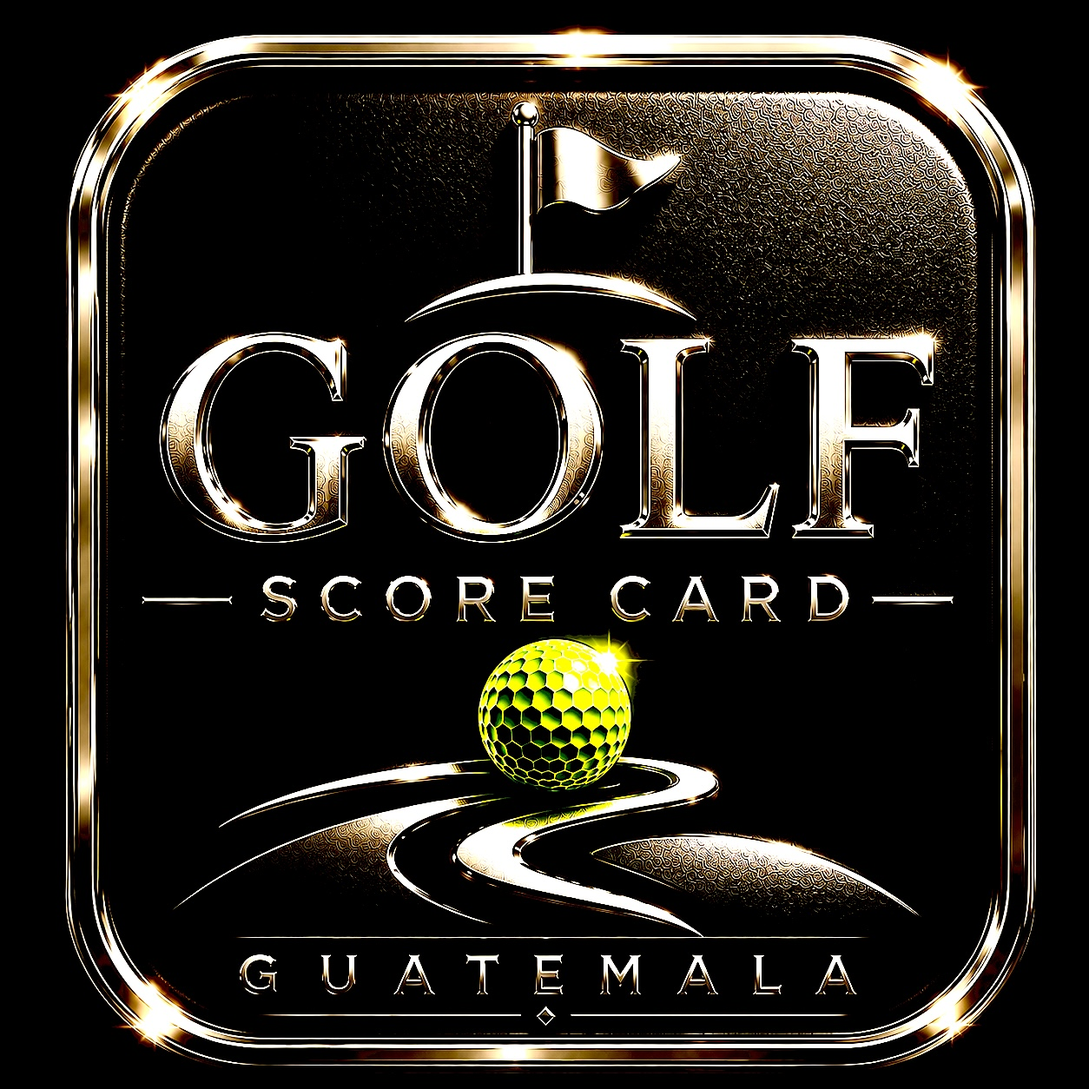
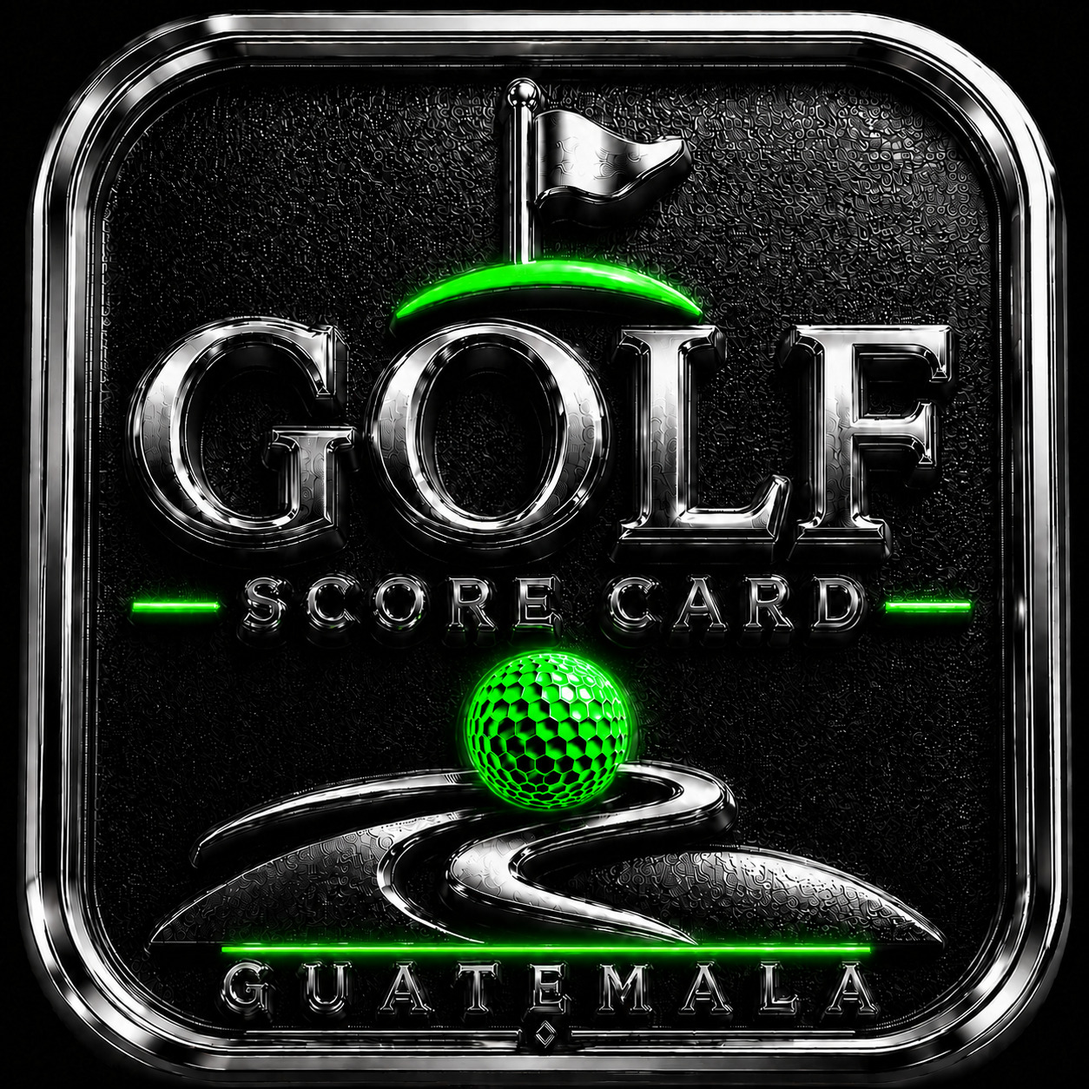
V297 · icono neón y micrófono compacto

diff --git a/index-grupal.html b/index-grupal.html
@@ -496,7 +496,10 @@ input,textarea,select{-webkit-user-select:text!important;user-select:text!import
 .registration-method-title{color:var(--lime);font:900 16px Arial,sans-serif;letter-spacing:.4px}
 .registration-method-action{margin-top:5px;color:#fff;font:900 13px Arial,sans-serif}
 .registration-method-fields{margin-top:3px;color:#cfd2d4;font:800 12px Arial,sans-serif;letter-spacing:.2px}
-.registration-method .nr-mic{margin:14px auto 4px}
+.registration-method .nr-mic{width:120px;height:120px;margin:14px auto 4px}
+.registration-method .nr-mic .mic-hit{inset:-26px}
+.registration-method .nr-mic .mic-visual{border-width:3px}
+.registration-method .nr-mic .setup-mic-icon{display:block;width:58%;height:58%;fill:currentColor;filter:drop-shadow(0 1px 0 rgba(255,255,255,.18))}
 .new-round-card .detected-row.head{grid-template-columns:minmax(145px,1.35fr) 62px 110px!important;column-gap:6px!important;margin-left:34px!important;width:calc(100% - 34px)!important}
 .new-round-card .draft-edit-row{grid-template-columns:28px minmax(145px,1.35fr) 62px 110px!important;gap:6px!important;opacity:1!important;padding:7px 3px!important}
 .new-round-card .confirm-row,.new-round-card .confirm-row.head{grid-template-columns:minmax(145px,1.35fr) 62px 110px!important;column-gap:6px!important}
@@ -504,7 +507,7 @@ input,textarea,select{-webkit-user-select:text!important;user-select:text!import
 #cardLibraryOverlay{z-index:140}.card-library-panel{width:min(920px,100%);margin:18px auto;border:1px solid #555;background:#000;padding:18px}.card-library-head{display:flex;align-items:center;justify-content:space-between;gap:12px}.card-library-head h1{margin:0;color:var(--lime);font-size:24px}.card-library-head button,.card-library-actions button{min-height:42px;border:1px solid var(--lime);border-radius:5px;background:#050505;color:#fff;font:900 12px Arial,sans-serif;padding:0 14px}.card-library-filters{display:grid;grid-template-columns:1fr 1fr 1.5fr;gap:8px;margin:15px 0}.card-library-filters select,.card-library-filters input,.card-library-actions select{width:100%;height:44px;border:1px solid #555;border-radius:5px;background:#050505;color:#fff;padding:0 10px;font:800 12px Arial,sans-serif;text-transform:uppercase}.card-library-list{display:grid;gap:8px;max-height:42vh;overflow:auto}.card-library-round{width:100%;display:grid;grid-template-columns:130px 1fr auto;gap:12px;align-items:center;min-height:68px;border:1px solid #4b4f50;border-radius:6px;background:#030303;color:#fff;padding:10px 12px;text-align:left}.card-library-round.active{border-color:var(--lime);box-shadow:0 0 10px rgba(49,255,0,.22)}.card-library-round-date{color:var(--lime);font-weight:900}.card-library-round-main{font-weight:900}.card-library-round-main small{display:block;margin-top:5px;color:#aaa}.card-library-round-mode{font-weight:900}.card-library-status{min-height:24px;padding:8px 0;color:var(--lime);font-weight:900;text-align:center}.card-library-actions{display:grid;grid-template-columns:repeat(3,1fr);gap:8px;margin-top:10px;padding-top:12px;border-top:1px solid #444}.card-library-selected{grid-column:1/4;color:#fff;font-weight:900;text-align:center}.card-library-actions select{grid-column:1/4}.card-library-empty{padding:26px;border:1px solid #333;color:#999;text-align:center;font-weight:900}
 #historyInsightsOverlay{z-index:150}.history-insights-panel{width:min(760px,100%);margin:18px auto;border:1px solid #555;background:#000;padding:18px}.history-insights-panel h1{margin:0;color:var(--lime);font-size:23px}.history-insights-query{display:grid;grid-template-columns:1fr auto;gap:8px;margin-top:16px}.history-insights-query input{height:48px;border:1px solid #555;border-radius:5px;background:#050505;color:#fff;padding:0 12px;font:800 13px Arial,sans-serif;text-transform:uppercase}.history-insights-query button,.history-insights-quick button,.history-insights-close{min-height:44px;border:1px solid var(--lime);border-radius:5px;background:#050505;color:#fff;font:900 11px Arial,sans-serif;padding:0 13px}.history-insights-quick{display:grid;grid-template-columns:repeat(3,1fr);gap:7px;margin:12px 0}.history-insights-result{min-height:110px;border:1px solid #444;border-radius:6px;padding:16px;color:#fff;font:900 16px/1.5 Arial,sans-serif}.history-insights-note{margin:10px 0;color:#999;font-size:10px;text-align:center}.history-insights-close{width:100%}
 @media(max-width:800px){
- .registration-method{margin-top:8px;padding:8px}.registration-method-title{font-size:12px}.registration-method-action{font-size:10px}.registration-method-fields{font-size:9px}.registration-method .nr-mic{margin:10px auto 3px}
+ .registration-method{margin-top:8px;padding:8px}.registration-method-title{font-size:12px}.registration-method-action{font-size:10px}.registration-method-fields{font-size:9px}.registration-method .nr-mic{width:112px;height:112px;margin:10px auto 3px}.registration-method .nr-mic .mic-hit{inset:-26px}
  .new-round-card .detected-row.head{grid-template-columns:minmax(0,1.35fr) 42px minmax(0,.8fr)!important;column-gap:3px!important;margin-left:23px!important;width:calc(100% - 23px)!important}
  .new-round-card .draft-edit-row{grid-template-columns:20px minmax(0,1.35fr) 42px minmax(0,.8fr)!important;gap:3px!important;padding:6px 2px!important}
  .new-round-card .confirm-row,.new-round-card .confirm-row.head{grid-template-columns:minmax(0,1.35fr) 42px minmax(0,.8fr)!important;column-gap:3px!important}
@@ -538,7 +541,7 @@ body.stableford-mode .account-backup-button{position:static;display:block;width:
   <section class="summary"><div class="summary-title" id="summaryTitle">INFORMACIÓN DE RONDA</div><table><thead><tr id="summaryHeadRow"><th class="summary-player">JUGADOR</th><th>GROSS OUT</th><th>GROSS IN</th><th>GROSS TOTAL</th><th>HCP</th><th>NETO TOTAL</th><th>+/- NETO</th></tr></thead><tbody id="summaryBody"></tbody></table></section>
   <section class="stableford-series hidden" id="stablefordSeriesSection"><div class="summary-title">CLASIFICACIÓN ACUMULADA · MEJORES 3 DE 4</div><div class="stableford-series-tabs"><button type="button" id="stablefordSeniorTab">SENIOR</button><button type="button" id="stablefordSuperSeniorTab">S. SENIOR</button></div><table><thead><tr><th>POS.</th><th>JUGADOR</th><th>F1</th><th>F2</th><th>F3</th><th>F4</th><th>MEJORES 3</th></tr></thead><tbody id="stablefordStandingsBody"></tbody></table><div class="stableford-series-actions"><button type="button" id="openStablefordResult">AGREGAR RESULTADO OFICIAL</button></div></section>
   <div class="round-actions"><button id="finalCardButton">TARJETA DIGITAL</button><button id="openCardLibraryButton">BIBLIOTECA</button><button class="hidden" id="previousRoundButton">RONDA PREVIA</button><button id="newRoundButton">NUEVA RONDA</button></div>
-  <div class="back-registration-control"><button class="back-registration-button" id="backToRegistrationButton" aria-label="Atrás: volver a la pantalla principal" title="Volver a la pantalla principal">ATRÁS</button><button class="back-registration-button add-player-button hidden" id="addPlayerButton" aria-label="Agregar jugador a la ronda" title="Agregar jugador">+ JUGADOR</button></div>
+  <div class="back-registration-control"><button class="back-registration-button" id="backToRegistrationButton" aria-label="Atrás: editar datos de la ronda" title="Editar datos de la ronda">ATRÁS</button><button class="back-registration-button add-player-button hidden" id="addPlayerButton" aria-label="Agregar jugador a la ronda" title="Agregar jugador">+ JUGADOR</button></div>
 </main>
 
 <div class="overlay" id="finalCardOverlay" aria-hidden="true">
@@ -572,7 +575,7 @@ body.stableford-mode .account-backup-button{position:static;display:block;width:
       <div class="registration-method-title">1 · DICTADO</div>
       <div class="registration-method-action">CLICK MICRÓFONO</div>
       <div class="registration-method-fields">NOMBRE + HDCP + MARCAS</div>
-      <div class="nr-mic" id="setupMicWrap"><button class="mic-hit" id="setupMic" aria-label="Dictar nombre, HDCP y marcas"></button><div class="mic-visual">🎙</div></div>
+      <div class="nr-mic" id="setupMicWrap"><button class="mic-hit" id="setupMic" aria-label="Dictar nombre, HDCP y marcas"></button><div class="mic-visual" aria-hidden="true"><svg class="setup-mic-icon" viewBox="0 0 24 24" focusable="false" aria-hidden="true"><path d="M12 14a3 3 0 0 0 3-3V5a3 3 0 0 0-6 0v6a3 3 0 0 0 3 3Zm5-3a5 5 0 0 1-10 0H5a7 7 0 0 0 6 6.92V21H8v2h8v-2h-3v-3.08A7 7 0 0 0 19 11h-2Z"/></svg></div></div>
     </section>
     </div>
     <section class="registration-method" aria-label="Método 2 Manual">
@@ -768,7 +771,7 @@ const CONTROL_MANUAL_DEMO_PLAYERS=[
   {name:"CARLOS",handicap:5,scores:[4,3,4,3,2]}
 ];
 const STABLEFORD_ACTIVE_KEY="golf-score-card-guatemala-stableford-active-v1";
-const STABLEFORD_OFFICIAL_HOSTING_URL="/index-grupal.html?stableford_emergency=countryclub&emergency_clean=1&v=288";
+const STABLEFORD_OFFICIAL_HOSTING_URL="/index-grupal.html?stableford_emergency=countryclub&emergency_clean=1&v=282";
 let round=sfEmergency?(latestStoredRound("stableford")||blankRound()):demoControlManual?(readStoredRound(DEMO_CONTROL_MANUAL_KEY)||blankRound()):loadRound();
 let sfRestoredActive=!!(sfEmergency&&round.configured&&round.mode==="stableford");
 let draftPlayers=[],manualDraftRows=Array.from({length:6},()=>({name:"",handicap:"",tee:""})),draftTournament=null,draftCourse="pulte",rosterEditMode=false,rosterEditJoinHole=1,handicapRectificationMode=false,nameCorrectionMode=false,profileCorrectionMode=false,rosterAddMode=false;
@@ -2303,7 +2306,7 @@ function renderFinalDigitalCard(){
   const actions=$("artifactActions");actions.hidden=!round.officiallyClosedAt;$("artifactShareStatus").textContent="";$("openOriginalGlobal").classList.toggle("hidden",!corrected);if(round.officiallyClosedAt)$("personalCardPlayer").innerHTML=round.officialSnapshot.players.map(p=>`<option value="${yds10NameSafe(p.id)}">${yds10NameSafe(p.name)}</option>`).join("");
   return true;
 }
-async function officiallyCloseRound(){if(round.provisional||!isRoundComplete()||round.officiallyClosedAt)return false;if(!round.endedAt)stopRoundClock();const result=await window.GSCRoundClosure.close(round,{deriveScore:derivedScoreForHole,appVersion:"V288"});if(!result.ok){$("status").textContent="RONDA INCOMPLETA";return false}round=result.round;persist();render();renderFinalDigitalCard();$("status").textContent="RONDA FINALIZADA. LAS TARJETAS ESTÁN LISTAS.";return true}
+async function officiallyCloseRound(){if(round.provisional||!isRoundComplete()||round.officiallyClosedAt)return false;if(!round.endedAt)stopRoundClock();const result=await window.GSCRoundClosure.close(round,{deriveScore:derivedScoreForHole,appVersion:"V287"});if(!result.ok){$("status").textContent="RONDA INCOMPLETA";return false}round=result.round;persist();render();renderFinalDigitalCard();$("status").textContent="RONDA FINALIZADA. LAS TARJETAS ESTÁN LISTAS.";return true}
 function officialArtifacts(){if(round.provisional||!round.officialSnapshot)throw new Error("Ronda no cerrada");return window.GSCCardArtifacts.build(round.officialSnapshot)}
 function artifactBlobUrl(html){return URL.createObjectURL(new Blob([html],{type:"text/html;charset=utf-8"}))}
 function openArtifact(item){const url=artifactBlobUrl(item.html),win=open(url,"_blank");setTimeout(()=>URL.revokeObjectURL(url),60000);return!!win}
@@ -2316,7 +2319,7 @@ function correctionSelectedPlayer(){return round.players.find(player=>player.id=
 function renderOfficialCorrectionCurrent(){const player=correctionSelectedPlayer(),hole=Number($("officialCorrectionHole").value),score=player?.holes?.[hole];$("officialCorrectionCurrent").value=score?(score.status==="x"?"X":String(score.gross??"")):"";return score||null}
 function openOfficialCorrection(){if(!round.officialSnapshot||!round.officiallyClosedAt)return false;$("officialCorrectionPlayer").innerHTML=round.players.map(player=>`<option value="${yds10NameSafe(player.id)}">${yds10NameSafe(player.name)}</option>`).join("");$("officialCorrectionHole").value="1";$("officialCorrectionGross").value="";$("officialCorrectionReason").value="";$("officialCorrectionStatus").textContent="";renderOfficialCorrectionCurrent();$("officialCorrectionOverlay").classList.add("visible");$("officialCorrectionOverlay").setAttribute("aria-hidden","false");return true}
 function closeOfficialCorrection(){$("officialCorrectionOverlay").classList.remove("visible");$("officialCorrectionOverlay").setAttribute("aria-hidden","true")}
-async function saveOfficialCorrection(){const player=correctionSelectedPlayer(),hole=Number($("officialCorrectionHole").value),gross=Number($("officialCorrectionGross").value),reason=$("officialCorrectionReason").value.trim(),authorizedBy=$("officialCorrectionAuthorizedBy").value.trim(),status=$("officialCorrectionStatus");if(!player||!Number.isInteger(hole)||hole<1||hole>18||!Number.isInteger(gross)||gross<1||gross>30){status.textContent="JUGADOR, HOYO O GROSS INVÁLIDO";return false}if(!reason){status.textContent="MOTIVO OBLIGATORIO";return false}if(!authorizedBy){status.textContent="RESPONSABLE OBLIGATORIO";return false}const changes=[{playerId:player.id,hole,gross}],result=await window.GSCRoundClosure.correct(round,{changes,reason,authorizedBy,appVersion:"V288"});if(!result.ok){status.textContent="NO SE PUDO GUARDAR LA CORRECCIÓN";return false}const current=player.holes?.[hole]||{},correctedScore=scoreObject(player,hole,gross,current);player.holes[hole]=isStablefordRound()?{...correctedScore,points:GSCStableford.pointsFor(gross,PAR[hole-1])}:correctedScore;round={...result.round,players:round.players,officialSnapshot:result.snapshot};if(isStablefordRound())storeStablefordRoundResults();persist();archiveRoundSnapshot(round);render();renderFinalDigitalCard();closeOfficialCorrection();$("artifactShareStatus").textContent=`CORRECCIÓN V${round.officialVersion} GUARDADA · ORIGINAL PRESERVADO`;return true}
+async function saveOfficialCorrection(){const player=correctionSelectedPlayer(),hole=Number($("officialCorrectionHole").value),gross=Number($("officialCorrectionGross").value),reason=$("officialCorrectionReason").value.trim(),authorizedBy=$("officialCorrectionAuthorizedBy").value.trim(),status=$("officialCorrectionStatus");if(!player||!Number.isInteger(hole)||hole<1||hole>18||!Number.isInteger(gross)||gross<1||gross>30){status.textContent="JUGADOR, HOYO O GROSS INVÁLIDO";return false}if(!reason){status.textContent="MOTIVO OBLIGATORIO";return false}if(!authorizedBy){status.textContent="RESPONSABLE OBLIGATORIO";return false}const changes=[{playerId:player.id,hole,gross}],result=await window.GSCRoundClosure.correct(round,{changes,reason,authorizedBy,appVersion:"V287"});if(!result.ok){status.textContent="NO SE PUDO GUARDAR LA CORRECCIÓN";return false}const current=player.holes?.[hole]||{},correctedScore=scoreObject(player,hole,gross,current);player.holes[hole]=isStablefordRound()?{...correctedScore,points:GSCStableford.pointsFor(gross,PAR[hole-1])}:correctedScore;round={...result.round,players:round.players,officialSnapshot:result.snapshot};if(isStablefordRound())storeStablefordRoundResults();persist();archiveRoundSnapshot(round);render();renderFinalDigitalCard();closeOfficialCorrection();$("artifactShareStatus").textContent=`CORRECCIÓN V${round.officialVersion} GUARDADA · ORIGINAL PRESERVADO`;return true}
 async function artifactFileAction(working,success,operation){const status=$("artifactShareStatus");status.textContent=working;try{const result=await operation();status.textContent=success;return result}catch(error){console.error("Archivo oficial:",error);status.textContent="NO SE PUDO GENERAR EL ARCHIVO";return null}}
 function imageOfficialCard(item){return artifactFileAction("GENERANDO IMAGEN…","IMAGEN LISTA · EN IPHONE ELIGE GUARDAR IMAGEN",()=>window.GSCCardFileExport.shareImage(item,"Tarjeta oficial Golf Score Card GT"))}
 function pdfOfficialCard(item){return artifactFileAction("GENERANDO PDF…","PDF OFICIAL DESCARGADO",()=>window.GSCCardFileExport.downloadPdf(item))}
@@ -2450,7 +2453,6 @@ function openNewRoundDraft(){
   // Regla mandatoria: abrir el registro de NUEVA RONDA nunca borra ni reemplaza
   // la última ronda persistida. El reemplazo ocurre exclusivamente en startConfirmedRound().
   persist();
-  if(sfEmergency)window.history.replaceState(null,"",window.location.pathname);
   dateSetup();
   openSetup("new");
   return true;
@@ -2707,7 +2709,7 @@ render=function(){if(isStablefordRound())return renderStableford();document.body
 const baseRenderPreviousRound=render;render=function(){const output=baseRenderPreviousRound();renderPreviousRoundControls();renderPlayerEditControls();return output};
 renderFinalDigitalCard=function(){const ok=baseRenderFinalDigitalCard();if(!ok)return false;$("finalSummaryHeadRow").innerHTML=$("summaryHeadRow").innerHTML;$("finalSummaryTitle").textContent=isStablefordRound()?"PUNTOS":"INFORMACIÓN DE RONDA";if(isStablefordRound()){const cfg=stablefordConfig(),corrected=Number(round.officialVersion||1)>1;document.querySelector(".final-card-head h1").textContent=corrected?`TARJETA STABLEFORD CORREGIDA · ${cfg.label} · V${round.officialVersion}`:`TARJETA STABLEFORD · ${cfg.label}`;document.querySelector(".final-card-readonly").textContent=corrected?"STABLEFORD SCRATCH · CORRECCIÓN OFICIAL · ORIGINAL PRESERVADO · SOLO CONSULTA":"STABLEFORD SCRATCH · TARJETA OFICIAL · SOLO CONSULTA"}return true};
 function storeStablefordRoundResults(){let series=readStablefordSeries();for(const p of round.players){const t=stablefordTotals(p,ALL);series=GSCStableford.upsertResult(series,{playerName:p.name,category:round.stablefordCategory,roundNumber:round.stablefordRoundNumber,courseKey:round.courseKey,points:t.points,gross:t.grossCount?t.gross:null,source:"scorecard",roundId:round.id})}writeStablefordSeries(series)}
-async function stablefordOfficialSnapshot(closedAt){const snapshot={roundId:round.id,version:Number(round.officialVersion)||1,status:"officially_closed",mode:"stableford",stablefordCategory:round.stablefordCategory,stablefordRoundNumber:round.stablefordRoundNumber,courseKey:round.courseKey,course:round.course,tournament:round.tournament||{name:STABLEFORD_DEFAULT_TOURNAMENT},playedAt:round.createdAt,officiallyClosedAt:closedAt,appVersion:"V288",players:JSON.parse(JSON.stringify(round.players))};snapshot.sha256=await window.GSCRoundClosure.sha256(snapshot);return snapshot}
+async function stablefordOfficialSnapshot(closedAt){const snapshot={roundId:round.id,version:Number(round.officialVersion)||1,status:"officially_closed",mode:"stableford",stablefordCategory:round.stablefordCategory,stablefordRoundNumber:round.stablefordRoundNumber,courseKey:round.courseKey,course:round.course,tournament:round.tournament||{name:STABLEFORD_DEFAULT_TOURNAMENT},playedAt:round.createdAt,officiallyClosedAt:closedAt,appVersion:"V287",players:JSON.parse(JSON.stringify(round.players))};snapshot.sha256=await window.GSCRoundClosure.sha256(snapshot);return snapshot}
 officiallyCloseRound=async function(){if(!isStablefordRound())return baseOfficiallyCloseRound();if(!isRoundComplete()||round.officiallyClosedAt){$("status").textContent="RONDA STABLEFORD INCOMPLETA";return false}if(!round.endedAt)stopRoundClock();const closedAt=new Date().toISOString(),snapshot=await stablefordOfficialSnapshot(closedAt);round={...round,status:"officially_closed",officiallyClosedAt:closedAt,officialVersion:snapshot.version,snapshotHash:snapshot.sha256,officialSnapshot:snapshot};storeStablefordRoundResults();persist();archiveRoundSnapshot(round);render();renderFinalDigitalCard();$("status").textContent="RONDA FINALIZADA · CAMPO, FECHA, TORNEO Y TARJETA GUARDADOS EN HISTORIAL";return true};
 roundSessionConfig=function(){const cfg=baseRoundSessionConfig();if(!isStablefordRound())return cfg;cfg.audio.input.transcription.prompt=`Golf Guatemala. Modalidad Stableford Scratch ${stablefordConfig().label}. Jugadores: ${round.players.map(p=>p.name).join(", ")}. El cursor ya indica el hoyo activo: transcribe literalmente nombre y Gross; el hoyo es opcional y solo reposiciona el cursor cuando se pronuncia. Después de Falta NOMBRE, una respuesta con solo score o solo omisión pertenece a ese jugador. Acepta números, par, bogey, doble bogey, birdie, eagle, albatros, X, equis, cero, sin score, sin dato, no informó, no dijo, no cantó, ponle cero, no le anotes o levanta. No inventes handicap ni Neto.`;return cfg};
 function openStablefordResultEditor(){const cfg=stablefordConfig();$("stablefordResultCategory").value=stablefordRankingCategory;$("stablefordResultRound").value=String(round.stablefordRoundNumber||1);$("stablefordResultCourse").value=round.courseKey||"country_club";$("stablefordResultName").value="";$("stablefordResultPoints").value="";$("stablefordResultGross").value="";$("stablefordResultStatus").textContent="";$("stablefordResultOverlay").classList.add("visible");$("stablefordResultOverlay").setAttribute("aria-hidden","false");$("stablefordResultName").focus();return cfg}
@@ -3162,7 +3164,7 @@ const lockScorecardSelection=e=>{if(e.target?.closest?.(".provisional-player-con
 document.addEventListener("selectionstart",lockScorecardSelection,{capture:true});
 document.addEventListener("contextmenu",lockScorecardSelection,{capture:true});
 document.addEventListener("dragstart",lockScorecardSelection,{capture:true});
-$("backToRegistrationButton").addEventListener("click",()=>isStablefordRound()?openNewRoundDraft():openCurrentRoundDataEditor());
+$("backToRegistrationButton").addEventListener("click",()=>isStablefordRound()?openStablefordDataEditor():openCurrentRoundDataEditor());
 $("addPlayerButton").addEventListener("click",()=>isStablefordRound()?openStablefordDataEditor():openRosterEditor());
 $("scorecard").addEventListener("input",e=>{const input=e.target.closest?.("[data-provisional-player]");if(!input||!round.provisional)return;const p=round.players.find(x=>x.id===input.dataset.provisionalPlayer);if(p)p.name=String(input.value||"").toUpperCase().trimStart()||`JUGADOR ${p.slot}`});
 $("scorecard").addEventListener("change",e=>{if(!round.provisional)return;const name=e.target.closest?.("[data-provisional-player]"),hcp=e.target.closest?.("[data-provisional-hcp]"),tee=e.target.closest?.("[data-provisional-tee]"),control=name||hcp||tee;if(!control)return;const id=name?.dataset.provisionalPlayer||hcp?.dataset.provisionalHcp||tee?.dataset.provisionalTee,p=round.players.find(x=>x.id===id);if(!p)return;if(name){const value=String(name.value||"").trim().toUpperCase();p.name=value||`JUGADOR ${p.slot}`;name.value=value}if(hcp){const value=String(hcp.value||"").trim(),number=Number(value),valid=value!==""&&Number.isInteger(number)&&number>=0&&number<=54;p.provisionalHandicapProvided=valid;p.handicap=valid?number:0}if(tee){const value=normalizeTee(tee.value);p.provisionalTeeProvided=!!value;p.tee=value||"Blanco"}recomputePlayerScores(p);persist();render()});

diff --git a/service-worker.js b/service-worker.js
@@ -1,6 +1,6 @@
 "use strict";
 
-const CACHE_NAME="gscg-mobile-v290";
+const CACHE_NAME="gscg-mobile-v297";
 const OFFLINE_ENTRY="/index-grupal.html";
 const SHELL=[
   OFFLINE_ENTRY,

diff --git a/CONTROL_PROYECTO_SCIRE/MAPA_MAESTRO_DE_ARCHIVOS.md b/CONTROL_PROYECTO_SCIRE/MAPA_MAESTRO_DE_ARCHIVOS.md
@@ -16,7 +16,7 @@ Archivos antiguos retirados del uso diario: **89**. Siguen recuperables en el hi
 | `.github/workflows/roadmap-gate.yml` | `2b0e0640e36c07e343f06414a9d2d703727237bb` | 712 bytes | Ejecuta automáticamente el candado ROADMAP en GitHub. |
 | `.github/workflows/stableford-tournament-pass.yml` | `df70cf36092ddd72b59271bf241b1ac58fb21027` | 1075 bytes | Comprueba Stableford y exige primero ambos ROADMAPS. |
 | `.gitignore` | `0994446eb785e2166ce79941bec8bba6c245c567` | 75 bytes | Indica qué archivos temporales no deben subirse a GitHub. |
-| `7B1C43A7-EB8A-43CB-B03E-0CAE9273F2A2.jpeg` | `a75309584c45d651daa6ef2db27db7722a2159d1` | 528361 bytes | Logo oficial original; su nombre raro se conserva porque ya estaba enlazado. |
+| `7B1C43A7-EB8A-43CB-B03E-0CAE9273F2A2.jpeg` | `1c3cdacf565de7b2ce42d57bb416a23c50af1b8e` | 599880 bytes | Fuente histórica del logo cromado 3D con verde neón muy saturado; conserva su nombre para no romper enlaces. |
 | `APP_ARCHITECTURE.md` | `7119e67641ce309201fa32922195ebceb3006fb4` | 3405 bytes | Explica cómo se divide la aplicación y cómo trabajan juntas sus partes. |
 | `AUDITORIA_MAESTRA_V170.md` | `8dd135a84521f64c39928fadb35de0518447fe40` | 4462 bytes | Resumen de una revisión histórica del producto. |
 | `CONTROL_PROYECTO_SCIRE/01_DIRECTRICES_PEDIDOS_Y_ORDENES_PENDIENTES/DIRECTRICES_MANDATORIAS.md` | `be454f43b458670199a7be029abf716dc49108d7` | 4018 bytes | Reglas permanentes, punto de corte y candado técnico de ambos ROADMAPS, incluido Vercel. |
@@ -41,8 +41,8 @@ Archivos antiguos retirados del uso diario: **89**. Siguen recuperables en el hi
 | `MAPA_MATRIZ_RONDA_PREVIA_V253.md` | `8194444ab5a8de1d77abaa7d39d0cb6e7a149548` | 2858 bytes | Explica Ronda previa desde V253. |
 | `MAPA_MATRIZ_STABLEFORD_V252.md` | `8911a7ef86398e0c3f18e647433387a02645082c` | 3828 bytes | Explica las piezas de Stableford incorporadas en V252. |
 | `README.md` | `e93c3adc84c81fdda07303f5d0f75fbb35140ea2` | 2170 bytes | Portada de GitHub que presenta el producto como Golf Score Card GT. |
-| `ROADMAP_A_DETALLE.md` | `c3dcfcffb8c64cef23890a49d6e2fca724d0801b` | 8944 bytes | Abre el directorio, sus 185 líneas y el registro del candado técnico, incluido Vercel. |
-| `ROADMAP_OVERALL.md` | `08221027494d52438fc0163f8c3904e4e6a7d04d` | 7992 bytes | Resumen general, punto de corte y registro obligatorio de cada modificación, incluido Vercel. |
+| `ROADMAP_A_DETALLE.md` | `dcea1c90d3ec53e9be56b7a31601c4d3d4543f38` | 11599 bytes | Abre el directorio, conserva el candado y registra el icono neón y el micrófono compacto V297. |
+| `ROADMAP_OVERALL.md` | `d017d7fad33d729cd2d455ccb593d19470a97d29` | 10223 bytes | Resumen general con el registro obligatorio del icono neón y el micrófono compacto V297. |
 | `ROADMAP_OVERALL_V291.png` | `2e7aaaaf4b7b337caa8750b17754d9173f8930fe` | 685254 bytes | Imagen vertical y sencilla del estado general para verla desde el teléfono. |
 | `ROADMAP_IMAGES/ROADMAP_A_DETALLE_01.png` | `2377b6bba6c886a2fddac44b2d01fbc7ebf3f0ca` | 410461 bytes | Página 1 de 9 del directorio visual detallado. |
 | `ROADMAP_IMAGES/ROADMAP_A_DETALLE_02.png` | `ba0d741c811283d33e53431b9a90cf3055a97bed` | 487065 bytes | Página 2 de 9 del directorio visual detallado. |
@@ -81,14 +81,14 @@ Archivos antiguos retirados del uso diario: **89**. Siguen recuperables en el hi
 | `api/session-grupal.js` | `4bd02dcd9cdc1fb4fada6ddb4fd8b7400d2280ee` | 5355 bytes | Abre el reconocimiento de voz grupal. |
 | `api/session.js` | `454a914b435c6cadadd0a169fe065719eef475de` | 14431 bytes | Abre el reconocimiento de voz anterior. |
 | `api/sync.js` | `82e4bdd482531f4ee6b41254652606d9f53e2251` | 3202 bytes | Intercambia cambios entre teléfono y respaldo. |
-| `assets/logo.png` | `fa3ea15951c42e379d33889c383be6ffaa8c26a0` | 912428 bytes | Logo de 1024 usado para crear iconos de iPhone y Android. |
-| `assets/official-logos/README.md` | `4edd9a19f1f57e7a3fae8372ce9498463c0a5dd8` | 1580 bytes | Explica cuál es el logo oficial y para qué sirve cada tamaño. |
-| `assets/official-logos/golf-score-card-gt-app-store-1024.png` | `fa3ea15951c42e379d33889c383be6ffaa8c26a0` | 912428 bytes | Icono oficial para App Store. |
-| `assets/official-logos/golf-score-card-gt-apple-touch-180.png` | `28f0f8533a4807f2c9bf8f0988a645c848532410` | 41189 bytes | Icono que aparece al instalar la web en iPhone o iPad. |
-| `assets/official-logos/golf-score-card-gt-google-play-512.png` | `28929abc6f0f77bdd359dc0473f6b7cc44cabee4` | 260992 bytes | Icono oficial para Google Play. |
-| `assets/official-logos/golf-score-card-gt-official-master-1254.jpeg` | `a75309584c45d651daa6ef2db27db7722a2159d1` | 528361 bytes | Copia maestra del logo oficial original. |
-| `assets/official-logos/golf-score-card-gt-pwa-192.png` | `b6a84d41edb0e2d7b42b6f9a3d9457c9458970f0` | 45723 bytes | Icono pequeño de la app instalable. |
-| `assets/official-logos/golf-score-card-gt-pwa-512.png` | `28929abc6f0f77bdd359dc0473f6b7cc44cabee4` | 260992 bytes | Icono grande de la app instalable. |
+| `assets/logo.png` | `376f6237bbdddf4245ecd3da0f080ad5462f8178` | 514891 bytes | Logo cromado 3D neón de 1024 usado para crear iconos de iPhone y Android. |
+| `assets/official-logos/README.md` | `d4c2f8e156b2f614d5992c477bc117c11a8ef2d7` | 1826 bytes | Explica que la versión cromada 3D con verde neón muy saturado es oficial y para qué sirve cada tamaño. |
+| `assets/official-logos/golf-score-card-gt-app-store-1024.png` | `376f6237bbdddf4245ecd3da0f080ad5462f8178` | 514891 bytes | Icono cromado 3D neón oficial para App Store. |
+| `assets/official-logos/golf-score-card-gt-apple-touch-180.png` | `ed44949eeb3aedad2ea1cf806091d216bc5e67e0` | 59579 bytes | Icono cromado 3D neón que aparece al instalar la web en iPhone o iPad. |
+| `assets/official-logos/golf-score-card-gt-google-play-512.png` | `0e85cc6995f9bafefb49dec5a8253aef3db7fffd` | 461402 bytes | Icono cromado 3D neón oficial para Google Play. |
+| `assets/official-logos/golf-score-card-gt-official-master-1254.jpeg` | `1c3cdacf565de7b2ce42d57bb416a23c50af1b8e` | 599880 bytes | Copia maestra del logo cromado 3D con verde neón muy saturado. |
+| `assets/official-logos/golf-score-card-gt-pwa-192.png` | `e28cd92c784748a2d4ff02bf3491b96c8121ed94` | 67805 bytes | Icono cromado 3D neón pequeño de la aplicación instalable. |
+| `assets/official-logos/golf-score-card-gt-pwa-512.png` | `0e85cc6995f9bafefb49dec5a8253aef3db7fffd` | 461402 bytes | Icono cromado 3D neón grande de la aplicación instalable. |
 | `audit-project.mjs` | `597a19619b0c7f64e8d6963f0d28ab02a329f6cf` | 3512 bytes | Ejecuta primero el candado ROADMAP y después las demás comprobaciones. |
 | `capacitor.config.json` | `a5ca52fde974ea370d90dbfe422f08101ec7f7eb` | 867 bytes | Define el nombre visible y la identidad de las apps de iPhone y Android. |
 | `card-artifacts.js` | `df8ba2b09532b73701681d7de1781ca5b54baf26` | 12799 bytes | Arma la tarjeta oficial con la información de la ronda. |
@@ -102,7 +102,7 @@ Archivos antiguos retirados del uso diario: **89**. Siguen recuperables en el hi
 | `database/test-player-profile-schema.mjs` | `32d0b6f78446a1193e8b2239b26f93738547b24b` | 817 bytes | Comprueba los espacios de la información central. |
 | `database/test-schema.mjs` | `ad64ac3b0ed21932c24ea56886124f518a7b0692` | 1099 bytes | Comprueba los espacios de la información central. |
 | `historical-analytics.js` | `2a5bb2f2ef1564b09a567823efde14b54829ce86` | 8963 bytes | Resume el historial y muestra datos útiles de rondas anteriores. |
-| `index-grupal.html` | `8c2261ad1bf63ee0a884dbb69fd02b4a4b3d776c` | 546922 bytes | Pantalla principal que usa el cliente: campos, modalidades, jugadores, rondas y Stableford. |
+| `index-grupal.html` | `897826a6f7909774127f1dd92c309d204a8a05b7` | 547446 bytes | Pantalla principal; en V297 reduce 50 % el micrófono de registro y muestra claramente su figura sin cambiar su función. |
 | `index.html` | `7b483f1553246274920c71a10723f484d1847744` | 759569 bytes | Entrada antigua que lleva a la pantalla principal. |
 | `ios/EPGCaddy/App.swift` | `06a1c8ee89139ef87af20f07bba2496aa2b90636` | 141 bytes | Inicia la aplicación de apoyo para iPhone. |
 | `ios/EPGCaddy/ContentView.swift` | `80556289a09cc451f4e11e56f2f9d6a800a50a5f` | 208 bytes | Abre Golf Score Card GT dentro de la aplicación de iPhone. |
@@ -112,7 +112,7 @@ Archivos antiguos retirados del uso diario: **89**. Siguen recuperables en el hi
 | `ios/project.yml` | `ef15575463a1913d778c7d8b8fb3dea237b0f4c7` | 976 bytes | Prepara el proyecto antiguo de iPhone con el nombre visible Golf Score Card GT. |
 | `manifest.webmanifest` | `e1aabc9eb3e15e548b3603fbdccb6318d417e56c` | 842 bytes | Define el nombre, colores, inicio e iconos cuando la web se instala como app. |
 | `master-data-sync.js` | `be2aade4553f95b389189fcf4225ece6d16deaad` | 8202 bytes | Mantiene igual la información del teléfono y del respaldo central. |
-| `mobile-release.json` | `78b302dd140af710b05467d86de7bfba983ffe7c` | 76 bytes | Guarda la versión y el número del próximo paquete móvil. |
+| `mobile-release.json` | `2d8d65d03bae3537128d8abb01ea8817ff0ec69a` | 76 bytes | Guarda la versión y el número 297 del próximo paquete móvil. |
 | `mobile/native-runtime-entry.js` | `ffbe9107212932779e6c8e7e5017f4c178b62326` | 704 bytes | Conecta la pantalla con funciones propias del teléfono. |
 | `package.json` | `a9ffec0ea56adb2998235b502fd71ed092b13bb0` | 1403 bytes | Lista lo necesario y agrega el botón técnico `roadmap:gate`. |
 | `player-registry.js` | `bf406d7b60803aedf1fd1d936de699d0cc95e0a5` | 11246 bytes | Guarda, encuentra y actualiza jugadores. |
@@ -123,7 +123,7 @@ Archivos antiguos retirados del uso diario: **89**. Siguen recuperables en el hi
 | `scripts/prepare-mobile-assets.mjs` | `fcd2fa387095322c9731917834ad424ad3e8fd73` | 1356 bytes | Crea todos los tamaños oficiales del logo. |
 | `scripts/prepare-native-release.mjs` | `447a576c6e370646166be976a6ec5ebcb2f7171d` | 2371 bytes | Prepara en un solo paso los proyectos de iPhone y Android. |
 | `scripts/roadmap-gate.mjs` | `94694d94a956dc7a62fb17697447f5fb4916617c` | 2881 bytes | Bloquea cualquier modificación o publicación que no aparezca en ambos ROADMAPS. |
-| `service-worker.js` | `009e07173e747f2ef05e89de5f91465c9abe16bb` | 1987 bytes | Mantiene la app actualizada y permite abrir partes guardadas cuando falla la conexión. |
+| `service-worker.js` | `bbc159c3792139d28d99cd99f43fea57cd596ae4` | 1987 bytes | Activa la caché V297 para entregar el icono nuevo y retirar la versión anterior. |
 | `stableford-countryclub-emergency.html` | `99b1f8b17f1bc077bbfe43e6af668eff6ebb33d7` | 688 bytes | Acceso antiguo de emergencia; se conserva para no romper enlaces. |
 | `stableford-course-source-mayan-golf.md` | `bd6b7632cc2da5d964ecd8358062cd06a7a564fc` | 660 bytes | Fuente usada para cargar la tarjeta de Mayan Golf. |
 | `stableford-course-source-san-isidro.md` | `b370db591d5139895c9586801d55b57b3bcf0359` | 505 bytes | Fuente usada para cargar la tarjeta de San Isidro. |
@@ -191,7 +191,7 @@ Archivos antiguos retirados del uso diario: **89**. Siguen recuperables en el hi
 | `test-v287-stableford-back-controls-clear.mjs` | `38775203ce67f828c90687799046a566e82fd517` | 667 bytes | Comprueba que Respaldo no tape Atrás ni + Jugador. |
 | `test-v288-stableford-one-touch-home.mjs` | `bf4b127fdfb288b01f55a506f80dd92445855e5c` | 2078 bytes | Comprueba que Atrás regrese al inicio con un toque. |
 | `test-v289-stableford-new-round-empty.mjs` | `bcb1295e20116ea9cde8b86ad96b5f8c366e626e` | 2005 bytes | Comprueba que Nueva ronda deje vacíos los nombres. |
-| `test-v290-brand-icons-cleanup.mjs` | `7e5afbd53573531f0133fbf85319b8c6146198f7` | 1648 bytes | Comprueba nombre, iconos oficiales y preparación comercial. |
+| `test-v290-brand-icons-cleanup.mjs` | `9b69d99e27380eb025e0d0a9ced6de22688543ef` | 1939 bytes | Comprueba el icono neón, el micrófono compacto y la preparación comercial V297. |
 | `test-voice-continuity.mjs` | `c837646c800161cc827e5c66927bbd682305c6e5` | 1717 bytes | Comprueba el registro y la continuidad por voz. |
 | `vercel.json` | `c6dbbe007a72b62ed141e39aac6128f2dce3eb8b` | 1638 bytes | Indica qué publicar, ejecuta el candado y conserva la salida web correcta. |
 | `verify-manual-sync.mjs` | `8042010c6b0cd81915a57a8ac65d1f778bea7cc7` | 730 bytes | Comprueba el respaldo y el envío de cambios. |

diff --git a/ROADMAP_OVERALL.md b/ROADMAP_OVERALL.md
@@ -10,8 +10,8 @@ Los nombres `EPG-CADDY`, `epg-caddy`, `EPGCaddy` y `com.epgcaddy.app` sólo perm
 
 ## Estado actual
 
-- Versión publicada: **V292**.
-- Código oficial GitHub: `f239cc4316809284480daff3f37904b4c2e6fb8d`.
+- Versión publicada antes de esta actualización: **V296**.
+- Código base oficial GitHub: `1007d5889d5c5ab5bb18d64661adf1955cc63f72`.
 - Vercel: **READY**.
 - Publicación Vercel: `dpl_FuHxdWb71xeHGNvcESFLT4ig8rWA`.
 - Aplicación oficial: https://epg-caddy.vercel.app/
@@ -129,6 +129,29 @@ Los nombres `EPG-CADDY`, `epg-caddy`, `EPGCaddy` y `com.epgcaddy.app` sólo perm
 | `CONTROL_PROYECTO_SCIRE/MAPA_MAESTRO_DE_ARCHIVOS.md` | Actualiza el código y la explicación del ajuste. |
 | `ROADMAP_A_DETALLE.md` | Guarda el ajuste dentro del directorio detallado. |
 | `ROADMAP_OVERALL.md` | Guarda el ajuste dentro de este resumen general. |
+
+## Actualización operativa V297 · Icono cromado 3D neón y micrófono compacto
+
+Autorización recibida el **24 de agosto de 2026** para instalar como icono oficial la versión cuadrada cromada, con relieve profundo, apariencia de metal troquelado y verde neón muy saturado. También se reduce 50 % el diámetro visible del micrófono de registro y se coloca una figura clara de micrófono en el centro. No cambia su funcionamiento ni su área cómoda de toque.
+
+| Archivo o modificación | Qué queda registrado |
+|---|---|
+| `7B1C43A7-EB8A-43CB-B03E-0CAE9273F2A2.jpeg` | Fuente cuadrada histórica actualizada con el logo autorizado, conservando su nombre técnico. |
+| `assets/logo.png` | Fuente operativa de 1024 × 1024 para los paquetes Apple y Android. |
+| `assets/official-logos/README.md` | Identifica la nueva versión cromada 3D como oficial. |
+| `assets/official-logos/golf-score-card-gt-app-store-1024.png` | Icono preparado para App Store. |
+| `assets/official-logos/golf-score-card-gt-apple-touch-180.png` | Icono preparado para el acceso directo de iPhone y iPad. |
+| `assets/official-logos/golf-score-card-gt-google-play-512.png` | Icono preparado para Google Play. |
+| `assets/official-logos/golf-score-card-gt-official-master-1254.jpeg` | Copia maestra oficial en máxima medida. |
+| `assets/official-logos/golf-score-card-gt-pwa-192.png` | Icono pequeño de la aplicación instalable. |
+| `assets/official-logos/golf-score-card-gt-pwa-512.png` | Icono grande de la aplicación instalable. |
+| `index-grupal.html` | Micrófono de registro 50 % más pequeño, con símbolo central claro para el usuario nuevo. |
+| `mobile-release.json` | Número de paquete preparado actualizado a V297. |
+| `service-worker.js` | Caché renovada para entregar el icono V297 y retirar el anterior. |
+| `test-v290-brand-icons-cleanup.mjs` | Comprobación operativa alineada con el paquete y la caché V297. |
+| `CONTROL_PROYECTO_SCIRE/MAPA_MAESTRO_DE_ARCHIVOS.md` | Códigos, tamaños y explicaciones de los archivos actualizados. |
+| `ROADMAP_A_DETALLE.md` | Registro detallado obligatorio de esta modificación. |
+| `ROADMAP_OVERALL.md` | Registro general obligatorio de esta modificación. |
 
 ## Regla permanente
 

diff --git a/ROADMAP_A_DETALLE.md b/ROADMAP_A_DETALLE.md
@@ -118,6 +118,29 @@ Este archivo permanece como entrada directa y amigable al directorio detallado d
 | `ROADMAP_A_DETALLE.md` | Se genera con este mismo archivo | Registra el ajuste dentro del directorio detallado. |
 | `ROADMAP_OVERALL.md` | Se genera con este mismo archivo | Registra el ajuste dentro del resumen general. |
 
+## Registro obligatorio de la actualización operativa V297
+
+Autorización: **24 de agosto de 2026**. Alcance: instalar el icono cuadrado cromado 3D con verde neón muy saturado en todos los formatos Apple, Android y web instalable; además, reducir 50 % el micrófono visible de registro y mostrar una figura clara de micrófono sin cambiar su función.
+
+| Archivo modificado | ID o código actualizado | Explicación sencilla |
+|---|---|---|
+| `7B1C43A7-EB8A-43CB-B03E-0CAE9273F2A2.jpeg` | `1c3cdacf565de7b2ce42d57bb416a23c50af1b8e` | Fuente histórica del logo, ahora con cromado 3D y verde neón muy saturado. |
+| `assets/logo.png` | `376f6237bbdddf4245ecd3da0f080ad5462f8178` | Imagen de 1024 usada para preparar los paquetes Apple y Android. |
+| `assets/official-logos/README.md` | Registro V297 | Explica que la versión cromada 3D es la oficial. |
+| `assets/official-logos/golf-score-card-gt-app-store-1024.png` | `376f6237bbdddf4245ecd3da0f080ad5462f8178` | Icono final de 1024 para App Store. |
+| `assets/official-logos/golf-score-card-gt-apple-touch-180.png` | `ed44949eeb3aedad2ea1cf806091d216bc5e67e0` | Icono final que verá el usuario al instalarla en iPhone o iPad. |
+| `assets/official-logos/golf-score-card-gt-google-play-512.png` | `0e85cc6995f9bafefb49dec5a8253aef3db7fffd` | Icono final de 512 para Google Play. |
+| `assets/official-logos/golf-score-card-gt-official-master-1254.jpeg` | `1c3cdacf565de7b2ce42d57bb416a23c50af1b8e` | Copia maestra oficial del logo cromado 3D y verde neón. |
+| `assets/official-logos/golf-score-card-gt-pwa-192.png` | `e28cd92c784748a2d4ff02bf3491b96c8121ed94` | Icono pequeño de la aplicación instalable. |
+| `assets/official-logos/golf-score-card-gt-pwa-512.png` | `0e85cc6995f9bafefb49dec5a8253aef3db7fffd` | Icono grande de la aplicación instalable. |
+| `index-grupal.html` | Registro V297 | Reduce 50 % el micrófono visible, conserva su botón y agrega una figura central clara. |
+| `mobile-release.json` | Paquete `297` | Deja preparada la numeración móvil de esta versión. |
+| `service-worker.js` | Caché `gscg-mobile-v297` | Obliga a descargar los nuevos iconos y retirar la caché anterior. |
+| `test-v290-brand-icons-cleanup.mjs` | Validación V297 | Comprueba los iconos, el paquete móvil y la nueva caché. |
+| `CONTROL_PROYECTO_SCIRE/MAPA_MAESTRO_DE_ARCHIVOS.md` | Se genera con este mismo mapa | Actualiza códigos, tamaños y explicaciones sencillas. |
+| `ROADMAP_A_DETALLE.md` | Se genera con este mismo archivo | Registra toda la actualización a detalle. |
+| `ROADMAP_OVERALL.md` | Se genera con este mismo archivo | Registra toda la actualización en el resumen general. |
+
 ## Punto de corte y norma permanente estricta
 
 - **Punto de activación original: línea 183.**

diff --git a/assets/official-logos/README.md b/assets/official-logos/README.md
@@ -1,12 +1,12 @@
 # Logos oficiales · Golf Score Card GT
 
-Esta carpeta concentra las copias técnicas del logo oficial sin renombrar ni eliminar el archivo original `7B1C43A7-EB8A-43CB-B03E-0CAE9273F2A2.jpeg` de la raíz.
+Esta carpeta concentra las copias técnicas del logo oficial. Desde V297, la versión autorizada es la placa cuadrada plateada/cromada con relieve 3D profundo y apariencia de metal troquelado. La pelota, el green y las líneas llevan el verde neón muy saturado y flashy autorizado.
 
 ## Inventario
 
 | Archivo | Tamaño | Uso |
 |---|---:|---|
-| `golf-score-card-gt-official-master-1254.jpeg` | 1254 × 1254 | Copia maestra legible del original oficial. |
+| `golf-score-card-gt-official-master-1254.jpeg` | 1254 × 1254 | Copia maestra de la versión cromada 3D autorizada. |
 | `golf-score-card-gt-app-store-1024.png` | 1024 × 1024 | App Store, Xcode y catálogo nativo iOS. |
 | `golf-score-card-gt-google-play-512.png` | 512 × 512 | Ficha de Google Play. |
 | `golf-score-card-gt-pwa-512.png` | 512 × 512 | Icono principal PWA/Android. |
@@ -18,8 +18,8 @@ Todos los derivados mantienen la composición completa, fondo negro, espacio de 
 
 ## Archivo de nomenclatura original
 
-`7B1C43A7-EB8A-43CB-B03E-0CAE9273F2A2.jpeg` = **logo oficial cuadrado de Golf Score Card Guatemala, 1254 × 1254**. Se conserva con ese nombre porque ya es consumido por versiones anteriores de la web y no debe romperse.
+`7B1C43A7-EB8A-43CB-B03E-0CAE9273F2A2.jpeg` = **fuente histórica del logo oficial cuadrado de Golf Score Card Guatemala, 1254 × 1254**. Conserva su nombre técnico para no romper versiones anteriores, pero su imagen ya corresponde a la versión cromada 3D autorizada en V297.
 
 ## Regla de control
 
-No reemplazar, reinterpretar, recolorear ni recortar el logo sin autorización expresa. Cualquier nueva medida debe derivarse de la copia maestra y registrarse aquí.
+No reemplazar, reinterpretar, recolorear ni recortar el logo sin autorización expresa. Cualquier nueva medida debe derivarse de esta copia maestra, mantener fondo negro sin transparencia y registrarse aquí y en ambos ROADMAPS.
